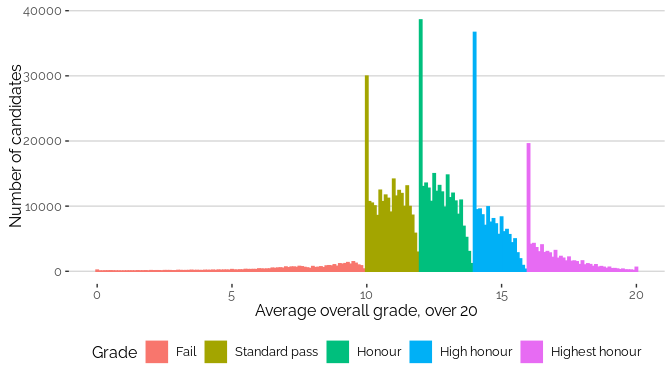
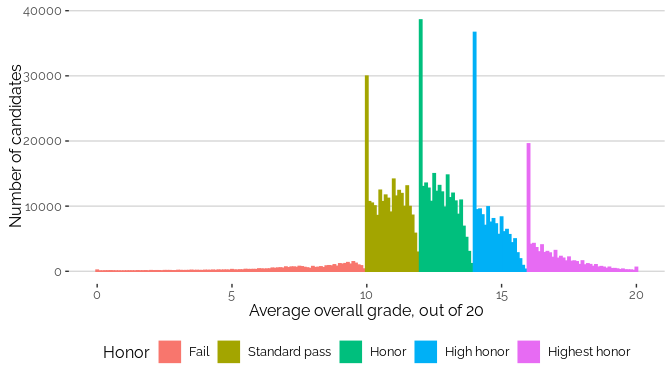
typos

Changed region(s): [[0.125, 0.9021, 0.9375, 0.9603], [0.375, 0.7857, 0.7188, 0.8439]]

diff --git a/inequite.md b/inequite.md
@@ -325,7 +325,7 @@ candidatent plus volontiers dans les formations les plus demandées, et
 vice-versa. Notre hypothèse conduit donc à minimiser la difficulté de
 construire un ordre total parmi les candidatures.
 
-    ## Joining, by = "Grade"
+    ## Joining, by = "Honor"
 
 ![](inequite_files/figure-gfm/ps.distrib.max.mention.cand-1.png)<!-- -->
 
@@ -356,7 +356,7 @@ ces cas.
 
 Concentrons-nous sur la frontière des formations (C), (D) et (E) :
 
-    ## Joining, by = "Grade"
+    ## Joining, by = "Honor"
 
 ![](inequite_files/figure-gfm/ps.distrib.frontiere-1.png)<!-- -->
 
@@ -375,7 +375,7 @@ national à l’effectif de ces formations, on peut faire le calcul suivant
 frontière dans la formation (C), 678 dans formation (E) et 675 dans la
 formation (F).
 
-    ## Joining, by = "Grade"
+    ## Joining, by = "Honor"
 
     ## # A tibble: 3 × 3
     ##   id    Nombre candidats_confondus
